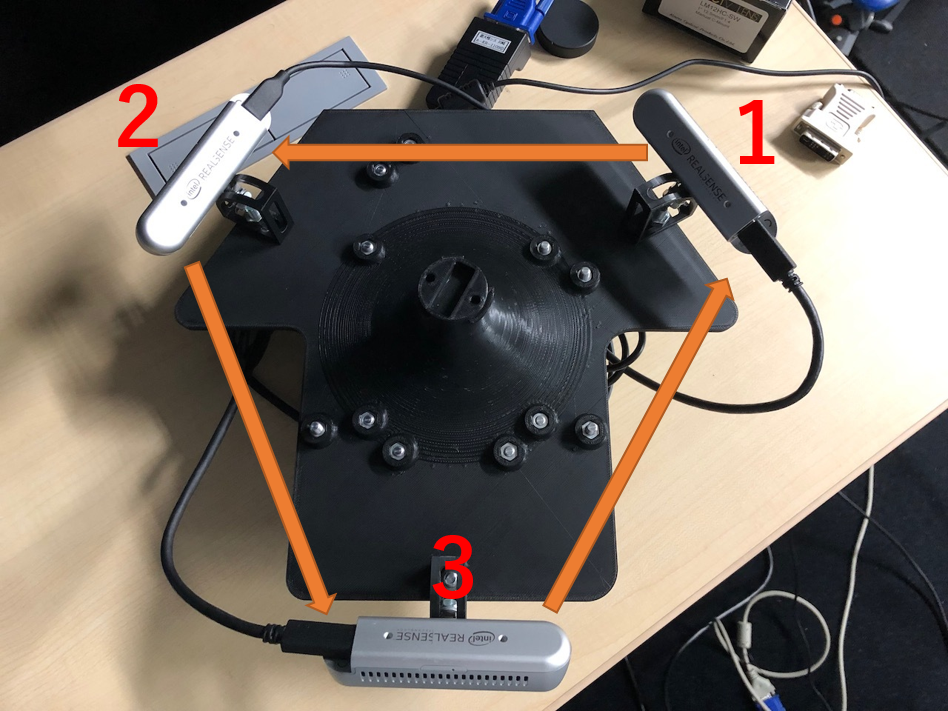
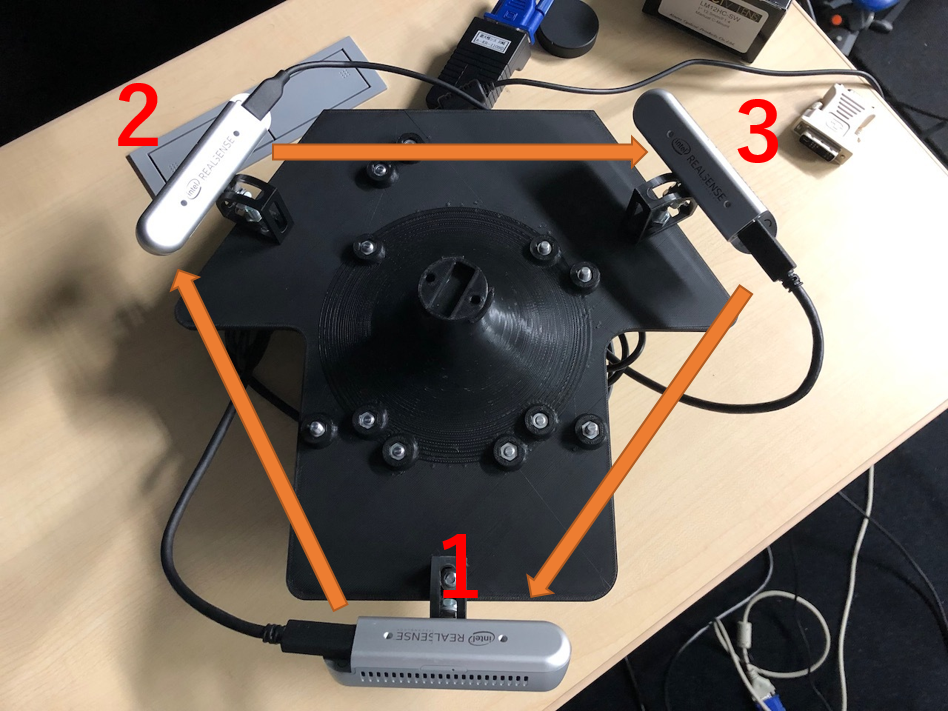
eval params

diff --git a/reconst/reconst_3d.py b/reconst/reconst_3d.py
@@ -1,35 +1,45 @@
-import numpy as np
+import os
+import sys
+import argparse
+
 import cv2
-import glob
+import numpy as np
+from scipy.spatial.transform import Rotation as R
+
+dir_current = os.path.dirname(os.path.abspath(__file__))
+os.chdir(dir_current)
+sys.path.append('../')
 
 import config as cf
-import depth_tools as tool
+from utils import depth_tools as tool
 
+os.chdir(dir_current)
+###########################################################################################
 cam_params = {
     'focal_length': 628.271728515625, # [pixel]
     'center_x': 317.635650634766,
     'center_y': 231.91423034668
 }
 
-file_ext_param = '../captures/210623/calib/extrinsic_params.txt'
+# Parser
+parser = argparse.ArgumentParser()
+parser.add_argument('name', help='name of save dir')
+args = parser.parse_args()
 
-rt12 = []
-rt23 = []
-rt31 = []
-cnt = 0
-for line in open(file_ext_param, 'r'):
-    line = line.rstrip('\n')
-    if 1 < cnt < 5:
-        rt12.append(line.split())
-    if 8 < cnt < 12:
-        rt23.append(line.split())
-    if 15 < cnt < 19:
-        rt31.append(line.split())
-    cnt += 1
-    
-rt12 = np.array(rt12, dtype=float)
-rt23 = np.array(rt23, dtype=float)
-rt31 = np.array(rt31, dtype=float)
+dir_save = cf.dir_save + args.name + '/'
+
+rts = []
+for dic in cf.dic_cams:
+    directory = dir_save + dic['dir']
+
+    rt = []
+    for line in open(directory + cf.save_param.format('r' + dic['cams'][0], 'r' + dic['cams'][1]), 'r'):
+        rt.append(line.split())
+    rts.append(np.array(rt, dtype=float))
+
+rt12 = rts[0]
+rt23 = rts[1]
+rt31 = rts[2]
 r12 = rt12[:3, :3]
 r23 = rt23[:3, :3]
 r31 = rt31[:3, :3]
@@ -37,8 +47,8 @@ t12 = rt12[:3, 3]
 t23 = rt23[:3, 3]
 t31 = rt31[:3, 3]
 
-r13 = np.linalg.inv(r31)
-t13 = t31 * -1
+r21 = np.linalg.inv(r12)
+t21 = t12 * -1
 
 
 dir_0 = '../experiments/20210702T140403.448/image_00/depth/'
@@ -57,19 +67,18 @@ xyz_1 = tool.convert_depth_to_coords_no_pix_size(depth_1, cam_params).reshape(-1
 xyz_2 = tool.convert_depth_to_coords_no_pix_size(depth_2, cam_params).reshape(-1, 3).tolist()
 xyz_3 = tool.convert_depth_to_coords_no_pix_size(depth_3, cam_params).reshape(-1, 3).tolist()
 
-
-new_xyz_1 = []
-for i in range(len(xyz_1)):
-    xyz = np.array(xyz_1[i])
-    xyz = np.dot(xyz, r13)
-    xyz += t13
-    new_xyz_1.append(xyz)
 new_xyz_2 = []
 for i in range(len(xyz_2)):
     xyz = np.array(xyz_2[i])
-    xyz = np.dot(xyz, r23)
-    xyz += t23
+    xyz = np.dot(xyz, r21)
+    xyz += t21
     new_xyz_2.append(xyz)
+new_xyz_3 = []
+for i in range(len(xyz_3)):
+    xyz = np.array(xyz_3[i])
+    xyz = np.dot(xyz, r31)
+    xyz += t31
+    new_xyz_3.append(xyz)
 
-list_xyz = new_xyz_1 + new_xyz_2 + xyz_3
-tool.dump_ply(dir_0 + '3d.ply', list_xyz)
+list_xyz = xyz_1 + new_xyz_2 + new_xyz_3
+tool.dump_ply(dir_save + '3d.ply', list_xyz)

diff --git a/calib/eval_extrinsic.py b/calib/eval_extrinsic.py
@@ -1,0 +1,71 @@
+import os
+import sys
+import argparse
+
+import numpy as np
+from scipy.spatial.transform import Rotation as R
+
+dir_current = os.path.dirname(os.path.abspath(__file__))
+os.chdir(dir_current)
+sys.path.append('../')
+
+import config as cf
+
+os.chdir(dir_current)
+###########################################################################################
+
+# Parser
+parser = argparse.ArgumentParser()
+parser.add_argument('name', help='name of save dir')
+args = parser.parse_args()
+
+dir_save = cf.dir_save + args.name + '/'
+file_extrinsic = dir_save + cf.save_extrinsic_param
+
+f = open(file_extrinsic, 'w')
+
+rts = []
+for dic in cf.dic_cams:
+    directory = dir_save + dic['dir']
+
+    f.write('{}->{}'.format(*dic['cams']))
+    rt = []
+    for line in open(directory + cf.save_param.format('r' + dic['cams'][0], 'r' + dic['cams'][1]), 'r'):
+        f.write(line)
+        rt.append(line.split())
+    rts.append(np.array(rt, dtype=float))
+    f.write('\n')
+
+
+rt12 = rts[0]
+rt23 = rts[1]
+rt31 = rts[2]
+
+rt123 = np.dot(rt23, rt12)
+rt1231 = np.dot(rt31, rt123)
+
+print(rt1231)
+
+f.write('Evaluation\n')
+f.write('1->2->3->1\n')
+for line in list(rt1231):
+    f.write('{} {} {} {}\n'.format(*line))
+
+r = R.from_matrix(rt1231[:3, :3])
+angle_err = r.as_euler('xyz', degrees=True)
+angle_err_total = np.sqrt(np.sum(np.square(angle_err)))
+trans_err = rt1231[0:3,3]
+trans_err_total = np.sqrt(np.sum(np.square(trans_err)))
+
+print('Rotation(xyz)[degrees]: {} {} {}'.format(*angle_err))
+print('Rotation(Total)[degrees]: {}'.format(angle_err))
+print('Translation(xyz)[m]: {} {} {}'.format(*trans_err))
+print('Translation(Total)[m]: {}'.format(trans_err_total))
+
+f.write('Error\n')
+f.write('Rotation(xyz)[degrees]: {} {} {}\n'.format(*angle_err))
+f.write('Rotation(Total)[degrees]: {}\n'.format(angle_err_total))
+f.write('Translation(xyz)[m]: {} {} {}\n'.format(*trans_err))
+f.write('Translation(Total)[m]: {}\n'.format(trans_err_total))
+
+f.close()

diff --git a/config.py b/config.py
@@ -19,9 +19,9 @@ CAPTURE_WIDTH = 640
 CAPTURE_HEIGHT = 480
 CAPTURE_FPS = 30
 
-CAMERA_1 = '816612061596'
+CAMERA_1 = '816612061727'
 CAMERA_2 = '821212060533'
-CAMERA_3 = '816612061727'
+CAMERA_3 = '816612061596'
 
 #### Kinect config
 RGB_WIDTH = 1920
@@ -36,12 +36,12 @@ dic_cams = [
         'cams': [1, 2]
         },
     {
-        'dir': 'cam13/',
-        'cams': [1, 3]
+        'dir': 'cam23/',
+        'cams': [2, 3]
         },
     {
-        'dir': 'cap3/',
-        'cams': [2, 3]
+        'dir': 'cap31/',
+        'cams': [3, 1]
         }
 ]
 template_param = '''

diff --git a/calib/calc_extirinsic.py b/calib/calc_extirinsic.py
@@ -1,6 +1,5 @@
 import os
 import sys
-import glob
 import argparse
 
 import numpy as np
@@ -11,7 +10,6 @@ os.chdir(dir_current)
 sys.path.append('../')
 
 import config as cf
-from utils import file_tools as tool
 
 os.chdir(dir_current)
 ###########################################################################################
@@ -21,8 +19,6 @@ parser = argparse.ArgumentParser()
 parser.add_argument('name', help='name of save dir')
 args = parser.parse_args()
 
-cam = args.cam
-idx = args.idx
 dir_save = cf.dir_save + args.name + '/'
 
 for dic in cf.dic_cams:

diff --git a/README.md b/README.md
@@ -67,7 +67,7 @@ Calibration using PLY file by MeshLab.
 ## Tutorial
 ### Folder
 In all capturing and calibration sessions, you shold use same folder name to save.
-If you have 3 cameras to calibrate, sub-folder name shold be 'cam12', 'cam13', and 'cam23'.
+If you have 3 cameras to calibrate, sub-folder name shold be 'cam12', 'cam23', and 'cam31'.
 Example of folder name is '210715'.
 ```
 Captures/
@@ -75,10 +75,10 @@ Captures/
       ├ cam12/
       |   ├ realsense/
       |   └ kinect/
-      ├ cam13/
+      ├ cam23/
       |   ├ realsense/
       |   └ kinect/
-      └ cam23/
+      └ cam31/
           ├ realsense/
           └ kinect/
 ```
@@ -109,15 +109,15 @@ python capture_realsense.py 210715/cam12 2
 python capture_kinect.py 210715/cam12 2
 ```
 
-Capture by RealSense 1 and 3, and Kinect.
+Capture by RealSense 2 and 3, and Kinect.
 ```
-python capture_realsense.py 210715/cam13 1
-python capture_kinect.py 210715/cam13 1
-python capture_realsense.py 210715/cam13 3
-python capture_kinect.py 210715/cam13 3
+python capture_realsense.py 210715/cam23 2
+python capture_kinect.py 210715/cam23 2
+python capture_realsense.py 210715/cam23 3
+python capture_kinect.py 210715/cam23 3
 ```
 
-Capture by RealSense 2 and 3, and Kinect.
+Capture by RealSense 3 and 1, and Kinect.
 
 
 ### Extrinsic Parameters between RealSense and Kinect
